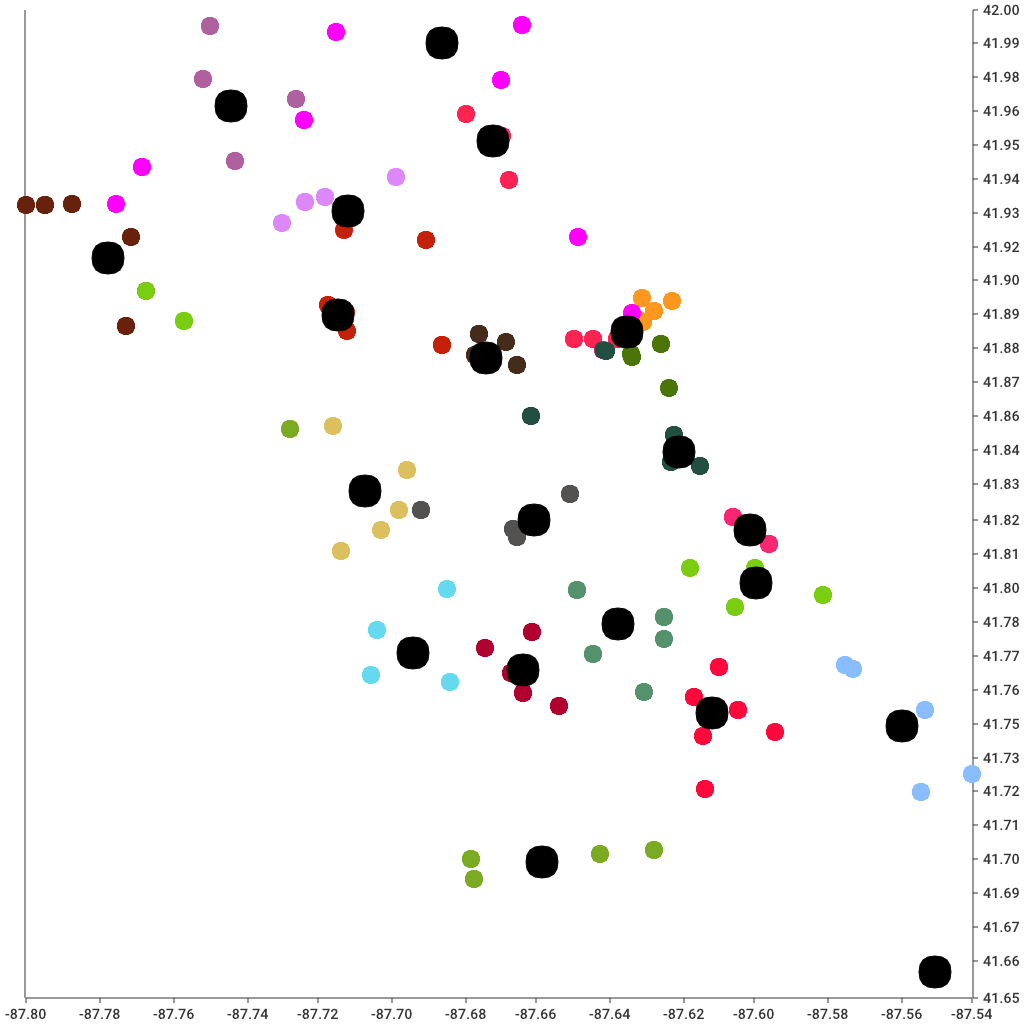
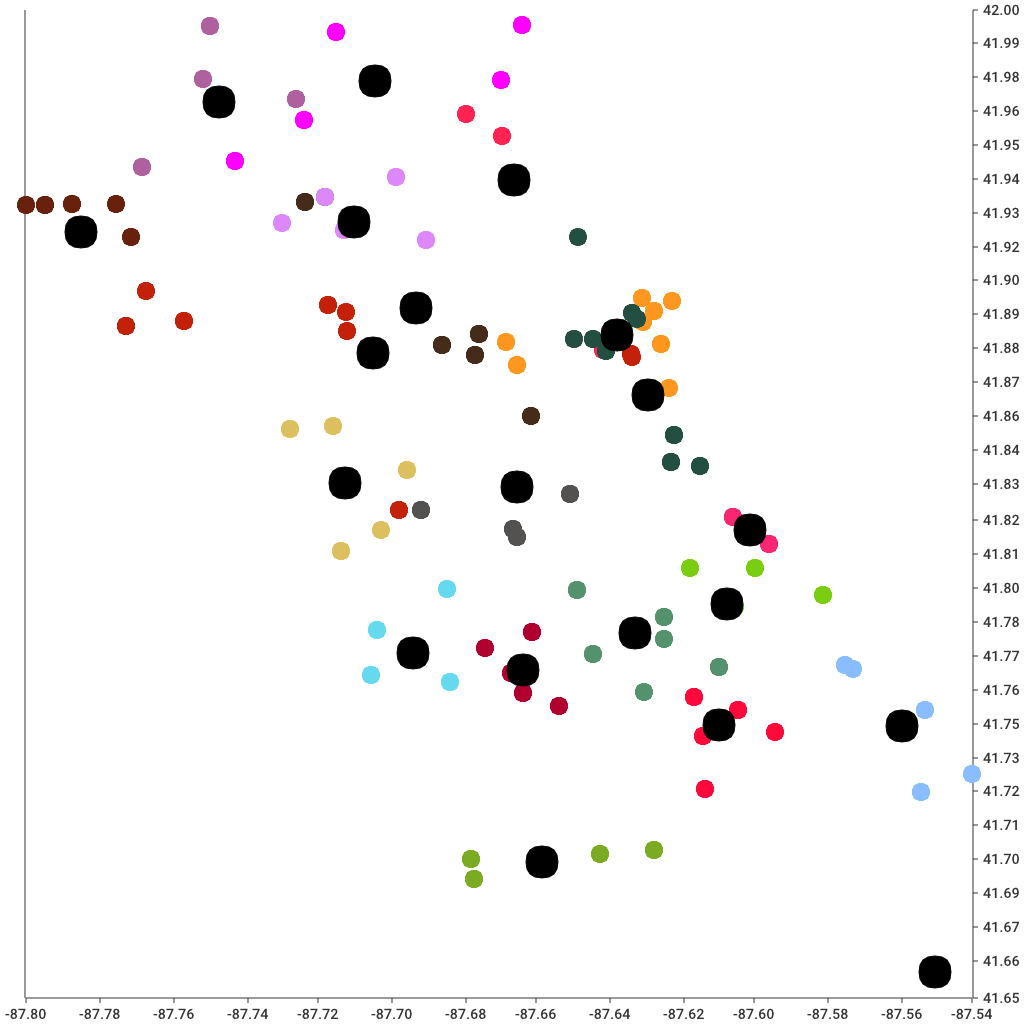
neighbour cluster border

diff --git a/main.go b/main.go
@@ -42,51 +42,49 @@ func main() {
 	min, max := MinMax(count)
 	fmt.Println(min, max)
 	iter := 0
-	for max-min > 15 {
+	for max-min > 10 {
 		var count3 []int
-		fmt.Println("here", max-min)
 		//  Plan the steps of adjustment among clusters;
-		// 19 step (0, 1) (1,2), dst
 		for i := 0; i < len(clusters); i++ {
 			if len(clusters[i].Observations) > 102 {
 				var diffA Observations
 				var diffB []diffsort
-				// var clust []int
+				var clust []int
 				// call borderadjust, get new cluster A & B
-				clusters.borderadjust(i)
+				// clusters.borderadjust(i)
 
-				// 	//call borderadjust, get new cluster A & B
-				// 	r, _ := clusters.Neighbour(clusters[i].Center, i)
-				// 	diffA, diffB, clust = clusters.newborderadjust(i, r)
+				//call borderadjust, get new cluster A & B
+				r, _ := clusters.Neighbour(clusters[i].Center, i)
+				diffA, diffB, clust = clusters.newborderadjust(i, r)
 
-				// 	//FIX THIS (what?)
-				// 	if len(diffA) == 0 && len(diffB) == 0 {
-				// 		continue
-				// 	} else if len(diffA) != 0 && len(diffB) != 0 {
-				// 		clusters[i].Observations = diffA
-				// 		for j := 0; j < len(diffB); j++ {
-				// 			c := clust[j]
-				// 			clusters[c].Observations = append(clusters[c].Observations, diffB[j].data)
-				// 		}
-				// 	}
-				// 	clusters.Recenter()
-				// }
+				//FIX THIS (what?)
 				if len(diffA) == 0 && len(diffB) == 0 {
 					continue
 				} else if len(diffA) != 0 && len(diffB) != 0 {
 					clusters[i].Observations = diffA
-					if i < (len(clusters) - 1) {
-						for j := 0; j < len(diffB); j++ {
-							clusters[i+1].Observations = append(clusters[i+1].Observations, diffB[j].data)
-						}
-					} else {
-						for j := 0; j < len(diffB); j++ {
-							clusters[0].Observations = append(clusters[0].Observations, diffB[j].data)
-						}
+					for j := 0; j < len(diffB); j++ {
+						c := clust[j]
+						clusters[c].Observations = append(clusters[c].Observations, diffB[j].data)
 					}
 				}
 				clusters.Recenter()
 			}
+			// 	if len(diffA) == 0 && len(diffB) == 0 {
+			// 		continue
+			// 	} else if len(diffA) != 0 && len(diffB) != 0 {
+			// 		clusters[i].Observations = diffA
+			// 		if i < (len(clusters) - 1) {
+			// 			for j := 0; j < len(diffB); j++ {
+			// 				clusters[i+1].Observations = append(clusters[i+1].Observations, diffB[j].data)
+			// 			}
+			// 		} else {
+			// 			for j := 0; j < len(diffB); j++ {
+			// 				clusters[0].Observations = append(clusters[0].Observations, diffB[j].data)
+			// 			}
+			// 		}
+			// 	}
+			// 	clusters.Recenter()
+			// }
 		}
 		// recenter
 

diff --git a/borderadjust.go b/borderadjust.go
@@ -3,7 +3,6 @@ package main
 import (
 	"math/rand"
 	"sort"
-	"time"
 )
 
 type diffsort struct {
@@ -12,7 +11,8 @@ type diffsort struct {
 }
 
 func (c Clusters) borderadjust(A int) {
-	rand.Seed(time.Now().UnixNano())
+	// rand.Seed(time.Now().UnixNano())
+	rand.Seed(20)
 	// For each point p in area A
 	var diff []diffsort
 	var diffB []diffsort
@@ -71,4 +71,48 @@ func (c Clusters) borderadjust(A int) {
 			}
 		}
 	}
+}
+
+func (c Clusters) newborderadjust(A int, B int) (Observations, []diffsort, []int) {
+	// For each point p in area A
+	var diff []diffsort
+	var clust []int
+	var diffB []diffsort
+	var diffA []diffsort
+	var obsA Observations
+	var obsB Observations
+	var r int
+
+	for _, p := range c[A].Observations {
+		r, _ = c.Neighbour(p, A)
+		distA := p.Distance(c[A].Center)
+		distB := p.Distance(c[B].Center)
+		//  Calculate diff(p, B) based on (2);
+		diff = append(diff, diffsort{distB - distA, p})
+		clust = append(clust, r)
+	}
+
+	//  Move the first m point in area A based on sorted
+	// diff(p, B) to area B;
+	// n := rand.Intn(103-101) + 101
+	chunkSize := (len(d) + 20 - 1) / 20
+	if len(c[A].Observations) > chunkSize && len(c[A].Observations) > len(c[B].Observations) {
+		m := len(c[A].Observations) - chunkSize
+		//  Sort all the diff(p, B) ascending;
+		sort.SliceStable(diff, func(i, j int) bool {
+			return diff[i].differ < diff[j].differ
+		})
+		for i := 0; i < m; i++ {
+			// move to B
+			diffB = append(diffB, diff[i])
+		}
+		diffA = diff[m:]
+		for i := 0; i < len(diffA); i++ {
+			obsA = append(obsA, diffA[i].data)
+		}
+		for i := 0; i < len(diffB); i++ {
+			obsB = append(obsB, diffB[i].data)
+		}
+	}
+	return obsA, diffB, clust
 }

diff --git a/kmeans.go b/kmeans.go
@@ -5,7 +5,6 @@ package main
 import (
 	"fmt"
 	"math/rand"
-	"sort"
 )
 
 // Kmeans configuration/option struct
@@ -189,48 +188,4 @@ func (m *Kmeans) NewPartition(dataset Observations, k int, seed int64) (Clusters
 	}
 
 	return cc, nil
-}
-
-func (c Clusters) newborderadjust(A int, B int) (Observations, []diffsort, []int) {
-	// For each point p in area A
-	var diff []diffsort
-	var clust []int
-	var diffB []diffsort
-	var diffA []diffsort
-	var obsA Observations
-	var obsB Observations
-	var r int
-
-	for _, p := range c[A].Observations {
-		r, _ = c.Neighbour(p, A)
-		distA := p.Distance(c[A].Center)
-		distB := p.Distance(c[B].Center)
-		//  Calculate diff(p, B) based on (2);
-		diff = append(diff, diffsort{distB - distA, p})
-		clust = append(clust, r)
-	}
-
-	//  Move the first m point in area A based on sorted
-	// diff(p, B) to area B;
-	// n := rand.Intn(103-101) + 101
-	chunkSize := (len(d) + 20 - 1) / 20
-	if len(c[A].Observations) > chunkSize && len(c[A].Observations) > len(c[B].Observations) {
-		m := len(c[A].Observations) - chunkSize
-		//  Sort all the diff(p, B) ascending;
-		sort.SliceStable(diff, func(i, j int) bool {
-			return diff[i].differ < diff[j].differ
-		})
-		for i := 0; i < m; i++ {
-			// move to B
-			diffB = append(diffB, diff[i])
-		}
-		diffA = diff[m:]
-		for i := 0; i < len(diffA); i++ {
-			obsA = append(obsA, diffA[i].data)
-		}
-		for i := 0; i < len(diffB); i++ {
-			obsB = append(obsB, diffB[i].data)
-		}
-	}
-	return obsA, diffB, clust
 }
